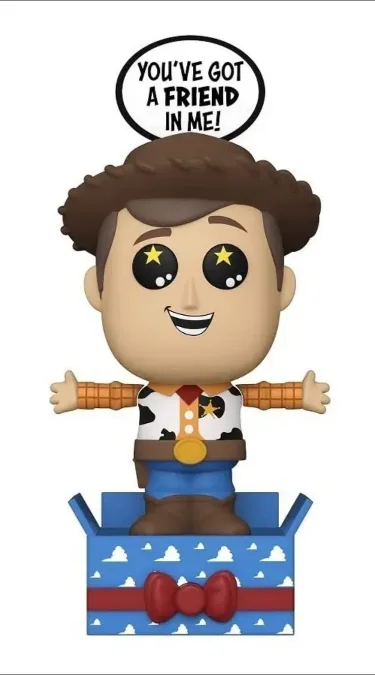
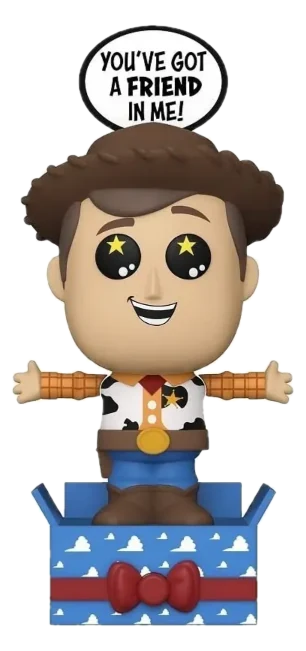
Fotos de los productos nuevos con fondo transparente (y Booster Bundle sin fondo blanco)
Claude-Session: https://claude.ai/code/session_01BbCJZnvwZZnFPddeV8zZjp

diff --git a/index.html b/index.html
@@ -881,15 +881,15 @@ const PRODUCTOS = [
   {id:29, desde:"2026-11-15", nuevo:true, nombre:"Boo decorativo — Super Mario", cat:"Impresión 3D", precio:5, autenticidad:"3d", emoji:"👻", fotos:["img/productos/29-1.webp","img/productos/29-2.webp","img/productos/29-3.webp","img/productos/29-4.webp","img/productos/29-5.webp"], stock:true, desc:"Figura decorativa de Boo, el fantasma de Super Mario, con su lengua afuera. Hecha en impresión 3D, ideal para tu escritorio o repisa."},
   {id:33, desde:"2026-11-15", nuevo:true, nombre:"Flexi Rex grande — juguete anti estrés", cat:"Impresión 3D", precio:10, autenticidad:"3d", emoji:"🦖", fotos:["img/productos/33-1.webp","img/productos/33-2.webp","img/productos/33-3.webp","img/productos/33-4.webp","img/productos/33-5.webp"], stock:true, desc:"Dinosaurio T-Rex articulado (flexi) tamaño grande: todas sus piezas se mueven, ideal como fidget sensorial anti estrés o decoración. Hecho en impresión 3D. Incluye un regalo sorpresa."},
   {id:36, desde:"2026-11-15", nuevo:true, nombre:"Adorno de pared Master Chief — Halo", cat:"Impresión 3D", precio:12, autenticidad:"3d", emoji:"🪖", fotos:["img/productos/36-1.webp","img/productos/36-2.webp","img/productos/36-3.webp","img/productos/36-4.webp","img/productos/36-5.webp","img/productos/36-6.webp","img/productos/36-7.webp","img/productos/36-8.webp"], stock:true, desc:"Trofeo decorativo de pared con el casco de Master Chief, inspirado en Halo. Se pega en la pared con cinta doble faz. Disponible en verde, verde agua y plateado: indícanos el color por WhatsApp. Hecho en impresión 3D. Incluye un regalo sorpresa."},
-  {id:98, desde:"2026-11-24", nuevo:true, nombre:"Peluche Gojo Satoru o Suguru Geto — Jujutsu Kaisen", cat:"Peluches", precio:20, autenticidad:"generico", emoji:"🧸", fotos:["img/productos/98-1.webp","img/productos/98-2.webp","img/productos/98-3.webp"], cantidad:1, stock:true, desc:"Peluche de Gojo Satoru o Suguru Geto de Jujutsu Kaisen, en su versión comediantes, con traje y corbata y bordados en la cara. Dinos por WhatsApp cuál personaje quieres. Felpa suave, ideal para coleccionar o regalar."},
+  {id:98, desde:"2026-11-24", nuevo:true, nombre:"Peluche Gojo Satoru o Suguru Geto — Jujutsu Kaisen", cat:"Peluches", precio:20, autenticidad:"generico", emoji:"🧸", fotos:["img/productos/98-1.webp"], cantidad:1, stock:true, desc:"Peluche de Gojo Satoru o Suguru Geto de Jujutsu Kaisen, en su versión comediantes, con traje y corbata y bordados en la cara. Dinos por WhatsApp cuál personaje quieres. Felpa suave, ideal para coleccionar o regalar."},
   {id:99, desde:"2026-11-24", nuevo:true, nombre:"Peluche Tony Tony Chopper blanco — One Piece (20 cm)", cat:"Peluches", precio:12.99, autenticidad:"generico", emoji:"🧸", fotos:["img/productos/99-1.webp","img/productos/99-2.webp"], cantidad:1, stock:true, desc:"Peluche de Tony Tony Chopper de One Piece, con su sombrero rosa con la cruz y su traje blanco. 📏 Mide 20 cm. Felpa suave, ideal para coleccionar o regalar."},
   {id:100, desde:"2026-11-24", nuevo:true, nombre:"Sudadera de Bowser — Super Mario Bros", cat:"Ropa", precio:14.99, autenticidad:"generico", emoji:"👕", fotos:["img/productos/100-1.webp","img/productos/100-2.webp"], cantidad:1, stock:true, desc:"Sudadera con capucha estampada de Bowser, de Super Mario Bros, en amarillo con caparazón verde con púas en la espalda. Talla única L."},
-  {id:101, desde:"2026-11-24", nuevo:true, nombre:"Base de control Samurai — PS5, Xbox y Switch", cat:"Impresión 3D", precio:7, autenticidad:"3d", emoji:"🖨", fotos:["img/productos/101-1.webp","img/productos/101-2.webp"], cantidad:1, stock:true, desc:"Soporte para control con forma de máscara samurái, para controles de PS5, Xbox y Switch. Hecho en impresión 3D."},
-  {id:102, desde:"2026-11-24", nuevo:true, nombre:"Diorama Pokémon Sylveon San Valentín — impreso en 3D", cat:"Impresión 3D", precio:11, autenticidad:"3d", emoji:"🖨", fotos:["img/productos/102-1.webp","img/productos/102-2.webp"], cantidad:1, stock:true, desc:"Diorama de Sylveon abrazando un corazón sobre una base de madera con plantas y flores. Pieza decorativa en impresión 3D, pintada a mano, en rosa chicle. Ideal para San Valentín."},
+  {id:101, desde:"2026-11-24", nuevo:true, nombre:"Base de control Samurai — PS5, Xbox y Switch", cat:"Impresión 3D", precio:7, autenticidad:"3d", emoji:"🖨", fotos:["img/productos/101-1.webp"], cantidad:1, stock:true, desc:"Soporte para control con forma de máscara samurái, para controles de PS5, Xbox y Switch. Hecho en impresión 3D."},
+  {id:102, desde:"2026-11-24", nuevo:true, nombre:"Diorama Pokémon Sylveon San Valentín — impreso en 3D", cat:"Impresión 3D", precio:11, autenticidad:"3d", emoji:"🖨", fotos:["img/productos/102-1.webp"], cantidad:1, stock:true, desc:"Diorama de Sylveon abrazando un corazón sobre una base de madera con plantas y flores. Pieza decorativa en impresión 3D, pintada a mano, en rosa chicle. Ideal para San Valentín."},
   {id:103, desde:"2026-11-24", nuevo:true, nombre:"Funko Popsies Sheriff Woody — Toy Story", cat:"Funko Pop", precio:18, autenticidad:"original", emoji:"🍥", fotos:["img/productos/103-1.webp","img/productos/103-2.webp"], cantidad:1, stock:true, desc:"Funko Popsies de Sheriff Woody de Toy Story (Pixar): figura que sale de su caja de nubes y dice «You've got a friend in me». Viene en su empaque original."},
   {id:104, desde:"2026-11-24", nuevo:true, nombre:"Diorama Pokémon Flareon San Valentín — impreso en 3D", cat:"Impresión 3D", precio:11, autenticidad:"3d", emoji:"🖨", fotos:["img/productos/104-1.webp","img/productos/104-2.webp"], cantidad:1, stock:true, desc:"Diorama de Flareon abrazando un corazón sobre una base de madera con rocas. Pieza decorativa en impresión 3D, pintada a mano, en rojo. Ideal para San Valentín."},
   {id:105, desde:"2026-11-24", nuevo:true, nombre:"Placa de cristal Ichiban Kuji — Dragon Ball (Esferas del Dragón)", cat:"Coleccionables", precio:7, autenticidad:"original", emoji:"🎁", fotos:["img/productos/105-1.webp"], cantidad:1, stock:true, desc:"Plato de vidrio premio Ichiban Kuji (Bandai) de Dragon Ball, con el diseño de la Esfera del Dragón de cuatro estrellas, en naranja. Viene en su caja original."},
-  {id:106, desde:"2026-11-24", nuevo:true, nombre:"Manga Chainsaw Man Vol. 11 — en japonés", cat:"Mangas", precio:20, autenticidad:"original", emoji:"📚", fotos:["img/productos/106-1.webp","img/productos/106-2.webp"], cantidad:1, stock:true, desc:"Tomo 11 del manga Chainsaw Man de Tatsuki Fujimoto, edición original en japonés de Jump Comics."},
+  {id:106, desde:"2026-11-24", nuevo:true, nombre:"Manga Chainsaw Man Vol. 11 — en japonés", cat:"Mangas", precio:20, autenticidad:"original", emoji:"📚", fotos:["img/productos/106-1.webp"], cantidad:1, stock:true, desc:"Tomo 11 del manga Chainsaw Man de Tatsuki Fujimoto, edición original en japonés de Jump Comics."},
   {id:107, desde:"2026-11-24", nuevo:true, nombre:"Manga One Piece Wanted! — en japonés", cat:"Mangas", precio:19.54, autenticidad:"original", emoji:"📚", fotos:["img/productos/107-1.webp"], cantidad:1, stock:true, desc:"One Piece Wanted!, recopilación de historias cortas de Eiichiro Oda, edición original en japonés de Jump Comics."},
   {id:108, desde:"2026-11-24", nombre:"Booster Bundle 30th Celebration — Pokémon TCG Inglés", cat:"Pokémon TCG", precio:80, autenticidad:"original", origen:["🇺🇸","EN"], emoji:"🃏", contenido:"6 sobres de refuerzo", fotos:["img/productos/108-1.webp"], preventa:true, stock:true, desc:"Booster Bundle oficial del 30 aniversario de Pokémon TCG (30th Celebration), en inglés, con Pikachu, Mew y Mewtwo en la caja. Incluye 6 sobres de refuerzo. Preventa: apártala pagando el 60% y paga el 40% restante cuando llegue; te avisamos por WhatsApp."},
 ];
